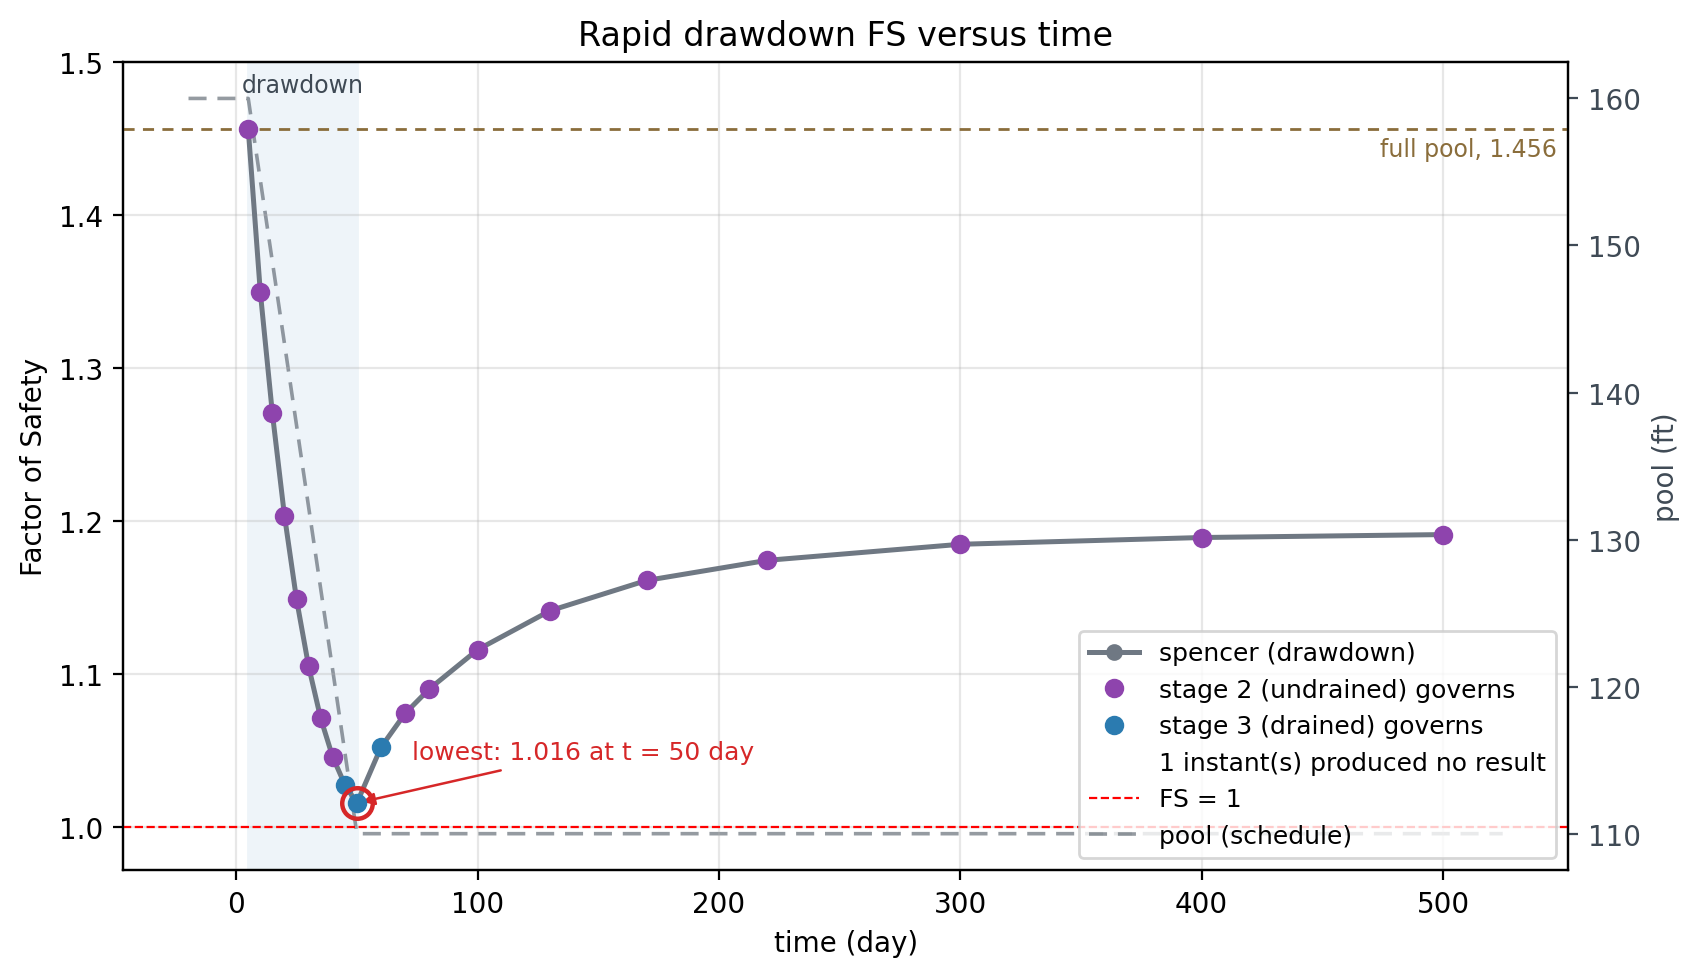
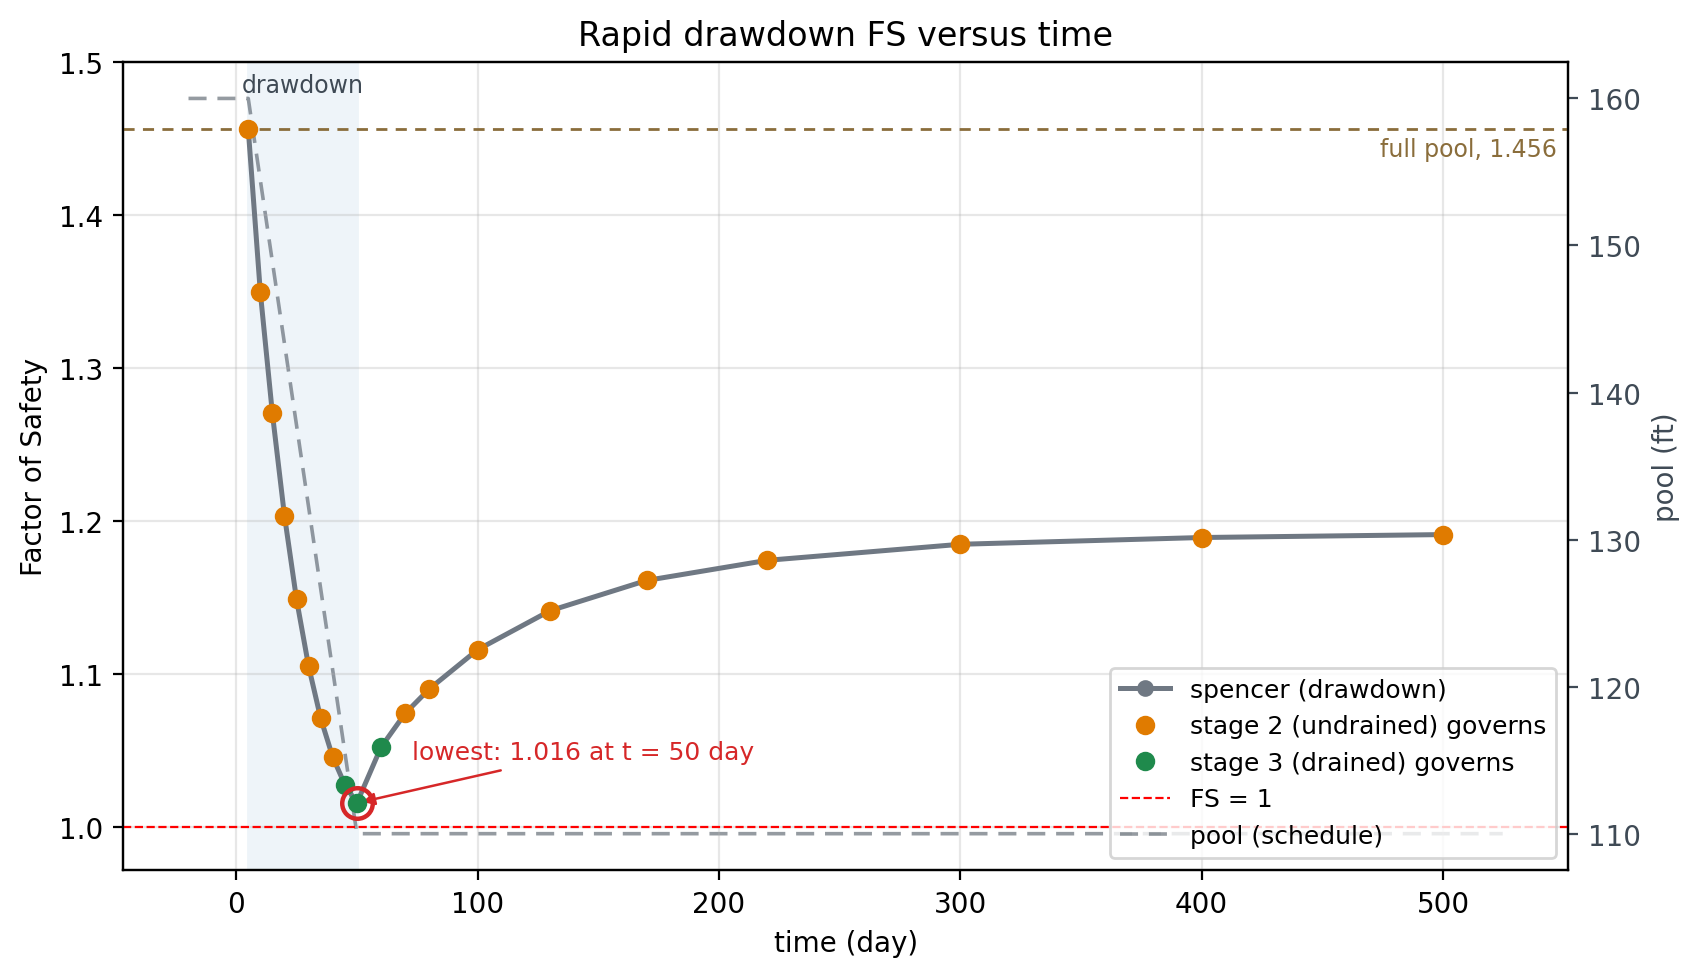
studio(parametric): frames at or before stage 1 dim under Rapid drawdown; stage colors orange/green; COMBO-3 follows
Claude-Session: https://claude.ai/code/session_01XjjT2aBxw8gY7EFdpoUcpj

diff --git a/run_tests.py b/run_tests.py
@@ -7787,6 +7787,32 @@ def run_sweep_window_test(test):
     return 0.0, None
 
 
+def run_rapid_stage1_frames_test(test):
+    """The Parametric dialog under Rapid drawdown at each time: the frames at or
+    before stage 1 cannot be a stage 2, so they are unticked and dimmed instead of
+    returning as failed rows. See test/rapid_stage1_frames_check.py. Skips cleanly
+    without PySide6. Returns (0.0, None) on success, else (None, message)."""
+    import importlib.util
+    import os
+
+    try:
+        import PySide6  # noqa: F401
+    except ImportError:
+        return 0.0, None
+    os.environ.setdefault("QT_QPA_PLATFORM", "offscreen")
+    path = Path(__file__).parent / 'test' / 'rapid_stage1_frames_check.py'
+    if not path.exists():
+        return None, f"missing {path}"
+    spec = importlib.util.spec_from_file_location('rapid_stage1_frames_check', path)
+    mod = importlib.util.module_from_spec(spec)
+    spec.loader.exec_module(mod)
+    try:
+        mod.main()
+    except AssertionError as e:
+        return None, str(e) or "assertion failed"
+    return 0.0, None
+
+
 def run_sweep_table_test(test):
     """The Table sub-tab every Parametric result view carries (``studio.sweep_table``).
 
@@ -12602,6 +12628,8 @@ def _dispatch_test(test):
         return run_sweep_window_test(test)
     if test_type == 'sweep_table':
         return run_sweep_table_test(test)
+    if test_type == 'rapid_stage1_frames':
+        return run_rapid_stage1_frames_test(test)
     if test_type == 'piezo_visibility':
         return run_piezo_visibility_test(test)
     if test_type == 'water_hoist':
@@ -13402,6 +13430,13 @@ def main():
         tests.append({'type': 'sweep_table',
                       'file': 'Parametric result tables (Studio)',
                       'method': '-', 'source': 'sweep_table'})
+        # Guard the Parametric dialog's frame list under Rapid drawdown: the frames
+        # at or before stage 1 are unticked and dimmed (they are the state the
+        # others fall from), All/None leave them alone, and unticking Rapid
+        # drawdown gives them back. Offscreen, no solve.
+        tests.append({'type': 'rapid_stage1_frames',
+                      'file': 'Parametric frames under Rapid drawdown (Studio)',
+                      'method': '-', 'source': 'rapid_stage1_frames'})
         # Guard Studio's in-app updater: the version comparison, the platform
         # artifact key, the minimum_version gate, the checksum refusal, and the
         # command each platform branch would spawn. Touches no network — the

diff --git a/test/rapid_stage1_frames_check.py b/test/rapid_stage1_frames_check.py
@@ -1,0 +1,49 @@
+"""The Parametric dialog's FS-vs-time frame list: with Rapid drawdown ticked, the
+frames at or before stage 1 are unticked and dimmed (they are the state the
+others fall from, not drawdowns), All/None leave them alone, and unticking Rapid
+drawdown gives them back ticked."""
+import os
+import sys
+
+os.environ.setdefault("QT_QPA_PLATFORM", "offscreen")
+ROOT = os.path.dirname(os.path.dirname(os.path.abspath(__file__)))
+sys.path.insert(0, ROOT)
+
+from PySide6.QtCore import Qt                                 # noqa: E402
+from PySide6.QtWidgets import QApplication                    # noqa: E402
+
+FILE = os.path.join(ROOT, "docs/tutorials/files/xslope_johnson_fs_time.xlsx")
+TIMES = [0, 5, 10, 15, 20, 25, 30, 35, 40, 45, 50, 60, 70, 80, 100, 130, 170,
+         220, 300, 400, 500]
+
+
+def main():
+    app = QApplication.instance() or QApplication(sys.argv)   # noqa: F841
+    from xslope.fileio import load_slope_data
+    from studio.dialogs import SensitivityDialog
+    sd = load_slope_data(FILE)
+    dlg = SensitivityDialog(defaults={"method": "spencer", "mode": "fs_vs_time"},
+                            slope_data=sd, app_mode="lem",
+                            transient={"times": TIMES})
+    first = dlg.times.item(0)
+
+    def enabled():
+        return bool(first.flags() & Qt.ItemIsEnabled)
+
+    assert enabled() and first.checkState() == Qt.Checked
+    assert len(dlg.selected_times()) == len(TIMES)
+    dlg.rapid.setChecked(True)
+    assert not enabled(), "t = 0 stays enabled with Rapid drawdown on"
+    assert first.checkState() == Qt.Unchecked
+    assert dlg.selected_times() == [float(t) for t in TIMES if t > 0]
+    assert "Stage 1" in first.toolTip()
+    dlg._set_all_times(True)
+    assert first.checkState() == Qt.Unchecked, "All ticked the stage-1 frame"
+    dlg.rapid.setChecked(False)
+    assert enabled() and first.checkState() == Qt.Checked
+    assert len(dlg.selected_times()) == len(TIMES)
+    print("rapid_stage1_frames_check: OK")
+
+
+if __name__ == "__main__":
+    main()

diff --git a/studio/dialogs.py b/studio/dialogs.py
@@ -2106,14 +2106,42 @@ class SensitivityDialog(QDialog):
             else:
                 self.search.setEnabled(True)
                 self.search.setToolTip(self._search_tip)
+        self._sync_stage_1_frames(on)
         self._sync_grid_seed()
         if self.mode.currentData() == "fs_vs_time":
             self._on_mode_changed()
             self.preflight.refresh()
 
+    def _sync_stage_1_frames(self, rapid_on):
+        """With every instant a drawdown, the frames at or before stage 1 are the
+        state the others fall from and cannot be a stage 2 themselves; they are
+        unticked and dimmed rather than left to come back as failed rows."""
+        stage_1 = getattr(self, "_stage_1", None)
+        if stage_1 is None:
+            return
+        unit = f" {self._time_unit}" if self._time_unit else ""
+        for i in range(self.times.count()):
+            item = self.times.item(i)
+            if float(item.data(Qt.UserRole)) > stage_1:
+                continue
+            if rapid_on:
+                item.setCheckState(Qt.Unchecked)
+                item.setFlags(item.flags() & ~Qt.ItemIsEnabled)
+                item.setToolTip(f"Stage 1 of every drawdown is read at "
+                                f"t = {_fmt_time(stage_1)}{unit}; this frame is "
+                                f"the state the others fall from, not a "
+                                f"drawdown of its own.")
+            else:
+                item.setFlags(item.flags() | Qt.ItemIsEnabled)
+                item.setCheckState(Qt.Checked)
+                item.setToolTip("")
+
     def _set_all_times(self, on):
         for i in range(self.times.count()):
-            self.times.item(i).setCheckState(Qt.Checked if on else Qt.Unchecked)
+            item = self.times.item(i)
+            if not (item.flags() & Qt.ItemIsEnabled):
+                continue
+            item.setCheckState(Qt.Checked if on else Qt.Unchecked)
 
     def selected_times(self):
         """The ticked instants, in saved order."""

diff --git a/tools/make_tutorial_figures.py b/tools/make_tutorial_figures.py
@@ -6694,7 +6694,11 @@ def combo03_rapid():
 
     # ---- every instant as a three-stage drawdown ---------------------------- #
     t0 = _time.time()
+    # Stage 1 is read at the first frame, so that frame is the state the others
+    # fall from and is not swept -- Studio dims it when Rapid drawdown is ticked.
+    _s1 = float((model.get("tseep") or {}).get("stage_1") or 0.0)
     ok, rapid_res = fs_vs_time(model, solution, methods=(COMBO03R_METHOD,),
+                               times=[t for t in solution["times"] if t > _s1],
                                num_slices=COMBO03R_SLICES, rapid=True,
                                search_opts=COMBO03_SEED, print_table=False)
     if not ok:

diff --git a/xslope/plot.py b/xslope/plot.py
@@ -5181,7 +5181,7 @@ def annotate_design_crossing(ax, target_fs, summary):
 #: instants with: the reservoir side warm, the dry side cool. Both are clear of the
 #: default line color, so a colored marker never reads as part of the line under it.
 _FACE_COLORS = {'upstream': '#b5460f', 'downstream': '#2b7bb0'}
-_STAGE_COLORS = {2: '#8e44ad', 3: '#2b7bb0'}
+_STAGE_COLORS = {2: '#e07b00', 3: '#1f8a4c'}
 
 
 def _crest_span(slope_data):

diff --git a/docs/tutorials/combo03_fs_vs_time.md b/docs/tutorials/combo03_fs_vs_time.md
@@ -595,8 +595,10 @@ to **LEM** (`Ctrl+1`) and click **Run → Parametric…**
 
 Set **Mode** to **Factor of safety vs time**. **Method** opens on **Spencer** and
 **Number of slices** on 40; leave both. **Saved frames** lists the twenty-one this
-run stored, all ticked — leave them, because the comparison at the end of this
-part needs all of them.
+run stored. Tick **Rapid drawdown at each time**, and t = 0 unticks and dims:
+stage 1 of every drawdown is read there, so that frame is the state the others
+fall from and cannot be a drawdown of its own. Leave the other twenty ticked,
+because the comparison at the end of this part needs all of them.
 
 **Rapid drawdown at each time → ticked.** Left off, each instant is one
 single-stage analysis of that instant's water. Ticked, each instant becomes stage
@@ -614,14 +616,13 @@ drawdown. Boundary set 2 raises nothing, because
 [we cleared it in COMBO-2](combo02_rapid_drawdown.md#clearing-boundary-set-2)
 before that run; a transient run solves boundary set 1 only.
 
-Click **Run**. Twenty of the twenty-one instants are drawdowns, each searched in
-full, so the table lands when the last search finishes:
+Click **Run**. Each of the twenty instants is a drawdown searched in full, so the
+table lands when the last search finishes:
 
 ```text
-Rapid drawdown vs time (lem): 21 instant(s) of the transient solution, spencer, re-searching at each…
+Rapid drawdown vs time (lem): 20 instant(s) of the transient solution, spencer, re-searching at each…
 Rapid drawdown versus time (stage 1 at t = 0)
 t (day)  stage 1  stage 2       stage 3      FS  governs      Xo      Yo       R
-      0        —        —             —       —        —       —       —       —   a drawdown from t = 0 to t = 0 is not a drawdown …
       5   1.5109   1.4563  not required  1.4563        2  242.74  256.34  165.90
      10   1.5142   1.3496  not required  1.3496        2  244.06  253.05  164.14
      15   1.5248   1.2704  not required  1.2704        2  246.78  250.47  163.54
@@ -642,13 +643,8 @@ t (day)  stage 1  stage 2       stage 3      FS  governs      Xo      Yo       R
     300   1.5514   1.1848  not required  1.1848        2  245.31  243.53  161.82
     400   1.5514   1.1893  not required  1.1893        2  245.31  243.53  161.82
     500   1.5514   1.1912  not required  1.1912        2  245.31  243.53  161.82
-Lowest factor of safety 1.0157 at t = 50 day (21 instant(s), 1 without a result).
+Lowest factor of safety 1.0157 at t = 50 day (20 instant(s), 0 without a result).
 ```
-
-The t = 0 row's message is cut at the ellipsis to fit the page. In the Log it
-runs on: *"a drawdown from t = 0 to t = 0 is not a drawdown -- the pool has not
-fallen yet; stage 2 must be a later instant than stage 1."* The first frame is
-the state the other twenty fall from.
 
 ### The rapid drawdown curve
 
@@ -662,9 +658,8 @@ the lower of stages 2 and 3; the three stages stay in the table above, where the
 governing one is named per row. Behind it, on the right axis, runs the pool
 schedule, with the forty-five days it falls over shaded and the pre-drawdown
 1.456 carried across as a dashed full-pool reference. The lowest instant is
-ringed and labeled, the red guide marks FS = 1, and the legend counts the instant
-that produced no result. Each point is colored by the stage that governs it —
-purple where stage 2's undrained strength gave the lower factor of safety, blue
+ringed and labeled, and the red guide marks FS = 1. Each point is colored by the stage that governs it —
+orange where stage 2's undrained strength gave the lower factor of safety, green
 where stage 3's drained strength did — so the three drained instants at the
 bottom of the dip stand out on the curve.
 
